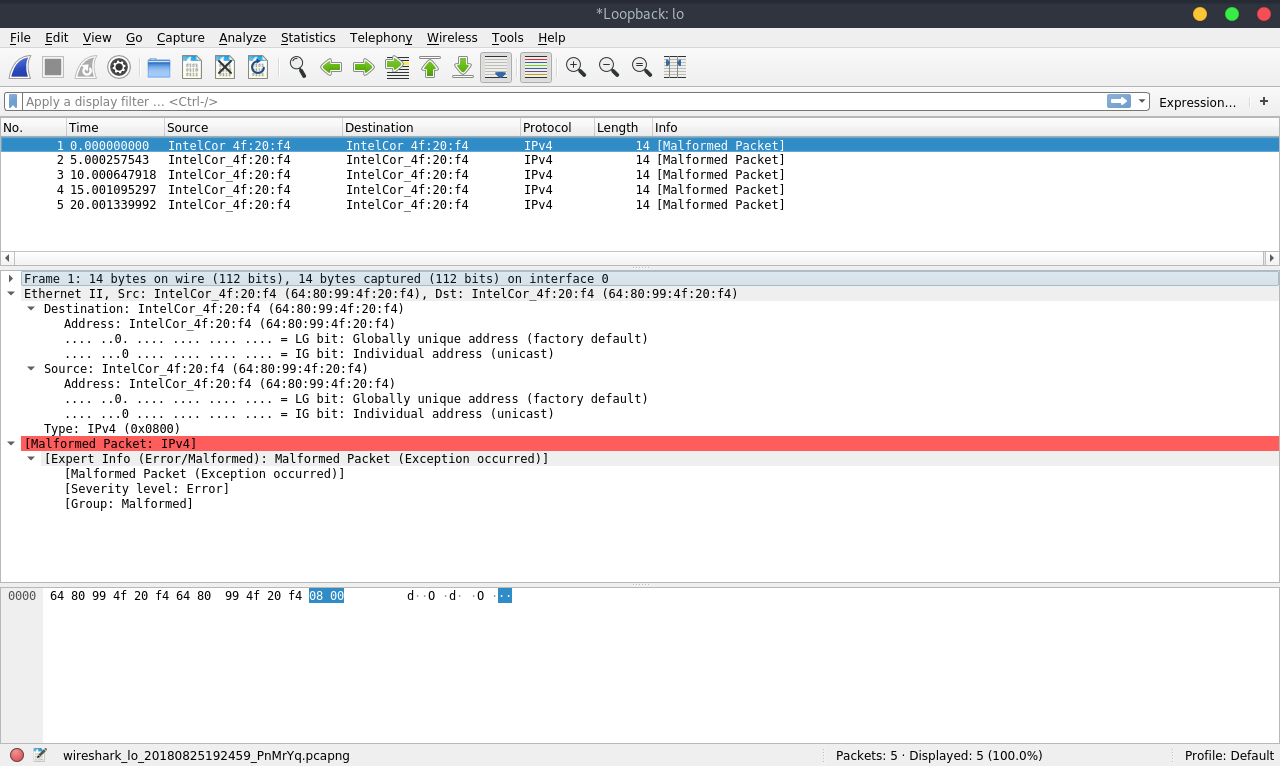
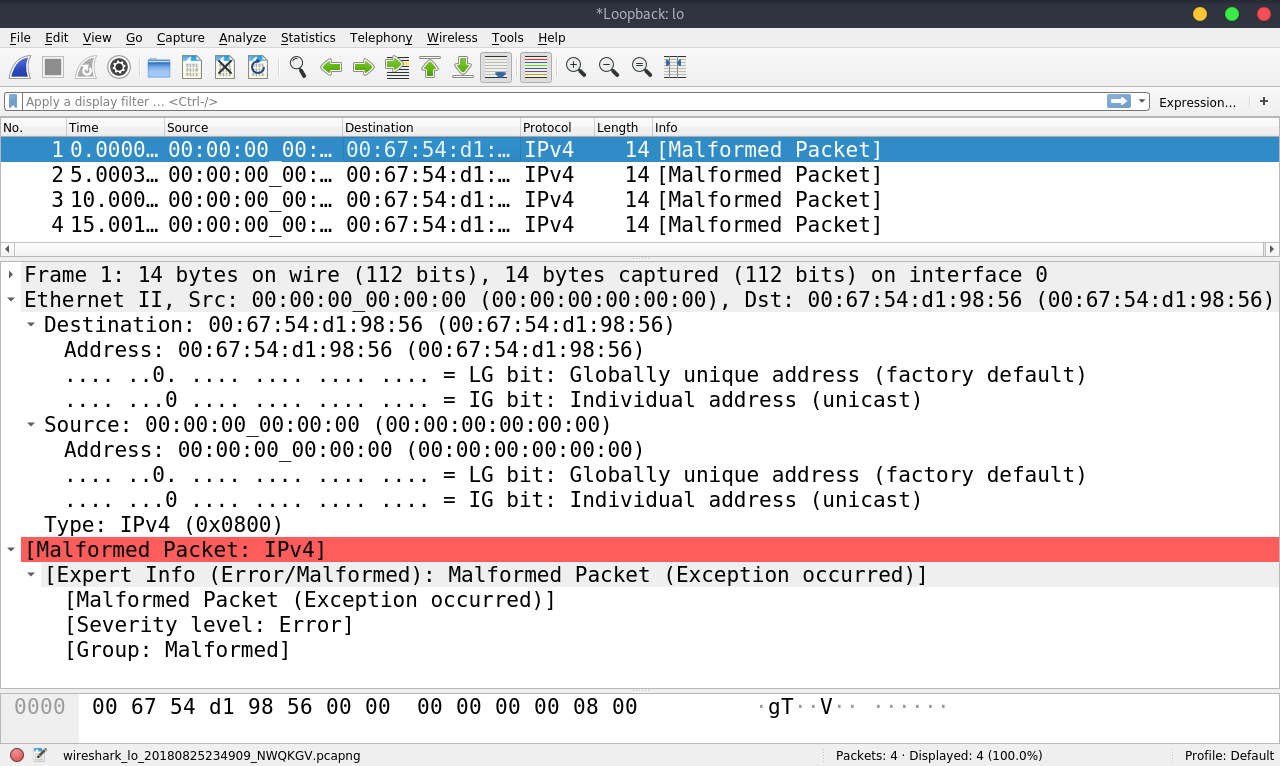
[add] IPパケットの解析

diff --git a/slide/index.html b/slide/index.html
@@ -724,7 +724,7 @@ void FreePacket(Packet *packet) {
 |---|---|---|
 | 宛先MACアドレス | 00:00:00:00:00:00 | 宛先のMACアドレス |
 | 送信元MACアドレス | 00:00:00:00:00:00 | 送信元MACアドレス |
-| タイプ | 2 | 上位プロトコルはIP |
+| タイプ | 8 | 上位プロトコルはIP |
 
 
 >>>
@@ -766,8 +766,8 @@ OSI参照モデルの第三層について規定している。
 
 | 名前 | サイズ | 詳細 |
 |---|---|---|
-| ihl | 4bit | IPヘッダの長さ |
 | version | 4bit | IPのバージョン |
+| ihl | 4bit | IPヘッダの長さ |
 | tos | 1 | パケットの優先順位 |
 | tot_len | 2 | パケット全体のサイズ |
 | id | 2 | パケットのID |
@@ -1187,8 +1187,8 @@ int Send(int soc){
 
     // パケットの初期化
     // Ethernet
-    sprintf(eh.ether_dhost, "\x64\x80\x99\x4f\x20\xf4");
-    sprintf(eh.ether_shost, "\x64\x80\x99\x4f\x20\xf4");
+    sprintf(eh.ether_dhost, "\x00\x00\x00\x00\x00\x00");
+    sprintf(eh.ether_shost, "\x00\x00\x00\x00\x00\x00");
     eh.ether_type = (u_int16_t)8;
     
     // IP
@@ -1198,7 +1198,7 @@ int Send(int soc){
         (u_int8_t)0,
         (u_int16_t)htons(sizeof(struct iphdr)),
         (u_int16_t)htons(rand() % 0x10000),
-        (u_int16_t)htons(0b01000000000000000000000 + (rand() % 0x100)),
+        (u_int16_t)0,
         (u_int8_t)1,
         (u_int8_t)17,
         (u_int16_t)0x00,
@@ -1276,6 +1276,94 @@ void FreePacket(Packet *packet) {
 }
 ```
 
+<<<
+
+## 送信したパケットを解析
+
+>>>
+
+### C言語だと
+
+```c
+// パケットの初期化
+// Ethernet
+sprintf(eh.ether_dhost, "\x00\x00\x00\x00\x00\x00");
+sprintf(eh.ether_shost, "\x00\x00\x00\x00\x00\x00");
+eh.ether_type = (u_int16_t)8;
+
+// IP
+struct iphdr ip = {
+    sizeof(struct iphdr) / 4,
+    4,
+    (u_int8_t)0,
+    (u_int16_t)htons(sizeof(struct iphdr)),
+    (u_int16_t)htons(rand() % 0x10000),
+    (u_int16_t)htons(0b01000000000000000000000 + (rand() % 0x100)),
+    (u_int8_t)1,
+    (u_int8_t)17,
+    (u_int16_t)0x00,
+    (u_int32_t)0x00,
+    (u_int32_t)0x00        
+};
+
+inet_pton(AF_INET, "192.168.10.112", &(ip.saddr));
+inet_pton(AF_INET, "192.168.10.112", &(ip.daddr));
+
+ip.check = checksum2((unsigned char *)&ip, sizeof(struct iphdr), NULL, 0);
+
+// パケットの実態の生成
+GenerateEthernetPacket(&packet, &eh);
+AddIPHeader(&packet, &ip);
+
+```
+
+>>>
+
+### Ethernetのフレーム
+前回と変わらず
+
+| 名前 | 値| 詳細 |
+|---|---|---|
+| 宛先MACアドレス | 00:00:00:00:00:00 | 宛先のMACアドレス |
+| 送信元MACアドレス | 00:00:00:00:00:00 | 送信元MACアドレス |
+| タイプ | 8 | 上位プロトコルはIP |
+
+>>>
+
+### IPのパケット
+
+| 名前 | 値 | 詳細 |
+|---|---|---|
+| version | 4 | IPv4 |
+| ihl | iphdrのサイズ / 4 | optionはなし |
+| tos | 0 | パケットの優先順位 |
+| tot_len | iphdrのサイズ | データがない、※ |
+| id | ランダム | ※ |
+
+※リトルエンディアン
+
+>>>
+
+### IPのパケット
+
+| 名前 | 値 | 詳細 |
+|---|---|---|
+| frag_off | 0 | 分割に関するフラグ |
+| ttl | 1 | 1回のみ経由可能 |
+| protocol | 17 | 上位プロトコルはUDP |
+| check | チェックサム | チェックサム |
+| saddr | 127.0.0.1 | 送信元IPアドレス |
+| daddr | 127.0.0.1 | 送信先IPアドレス |
+
+※リトルエンディアン
+
+>>>
+
+### WIRESHARKでみる
+
+![](./img/ip.png)
+
+<<<
 
 
                 </section>

diff --git a/client/src/ip.c b/client/src/ip.c
@@ -30,8 +30,8 @@ int Send(int soc){
 
     // パケットの初期化
     // Ethernet
-    sprintf(eh.ether_dhost, "\x64\x80\x99\x4f\x20\xf4");
-    sprintf(eh.ether_shost, "\x64\x80\x99\x4f\x20\xf4");
+    sprintf(eh.ether_dhost, "\x00\x00\x00\x00\x00\x00");
+    sprintf(eh.ether_shost, "\x00\x00\x00\x00\x00\x00");
     eh.ether_type = (u_int16_t)8;
     
     // IP
@@ -41,7 +41,8 @@ int Send(int soc){
         (u_int8_t)0,
         (u_int16_t)htons(sizeof(struct iphdr)),
         (u_int16_t)htons(rand() % 0x10000),
-        (u_int16_t)htons(0b01000000000000000000000 + (rand() % 0x100)),
+        (u_int16_t)0,
+        // htons(0b01000000000000000000000 + (rand() % 0x100)),
         (u_int8_t)1,
         (u_int8_t)17,
         (u_int16_t)0x00,
@@ -49,12 +50,10 @@ int Send(int soc){
         (u_int32_t)0x00        
     };
 
-    inet_pton(AF_INET, "192.168.10.112", &(ip.saddr));
-    inet_pton(AF_INET, "192.168.10.112", &(ip.daddr));
+    inet_pton(AF_INET, "127.0.0.1", &(ip.saddr));
+    inet_pton(AF_INET, "127.0.0.1", &(ip.daddr));
 
     ip.check = checksum2((unsigned char *)&ip, sizeof(struct iphdr), NULL, 0);
-
-    packet.ip = &ip;
 
     // パケットの実態の生成
     GenerateEthernetPacket(&packet, &eh);

diff --git a/client/src/ethernet.c b/client/src/ethernet.c
@@ -22,8 +22,8 @@ int Send(int soc){
     struct ether_header eh;
 
     // パケットの初期化
-    sprintf(eh.ether_dhost, "\x64\x80\x99\x4f\x20\xf4");
-    sprintf(eh.ether_shost, "\x64\x80\x99\x4f\x20\xf4");
+    sprintf(eh.ether_dhost, "\x00\x00\x00\x00\x00\x00");
+    sprintf(eh.ether_shost, "\x00\x00\x00\x00\x00\x00");
     eh.ether_type = (u_int16_t)8;
 
     GenerateEthernetPacket(&packet, &eh);
